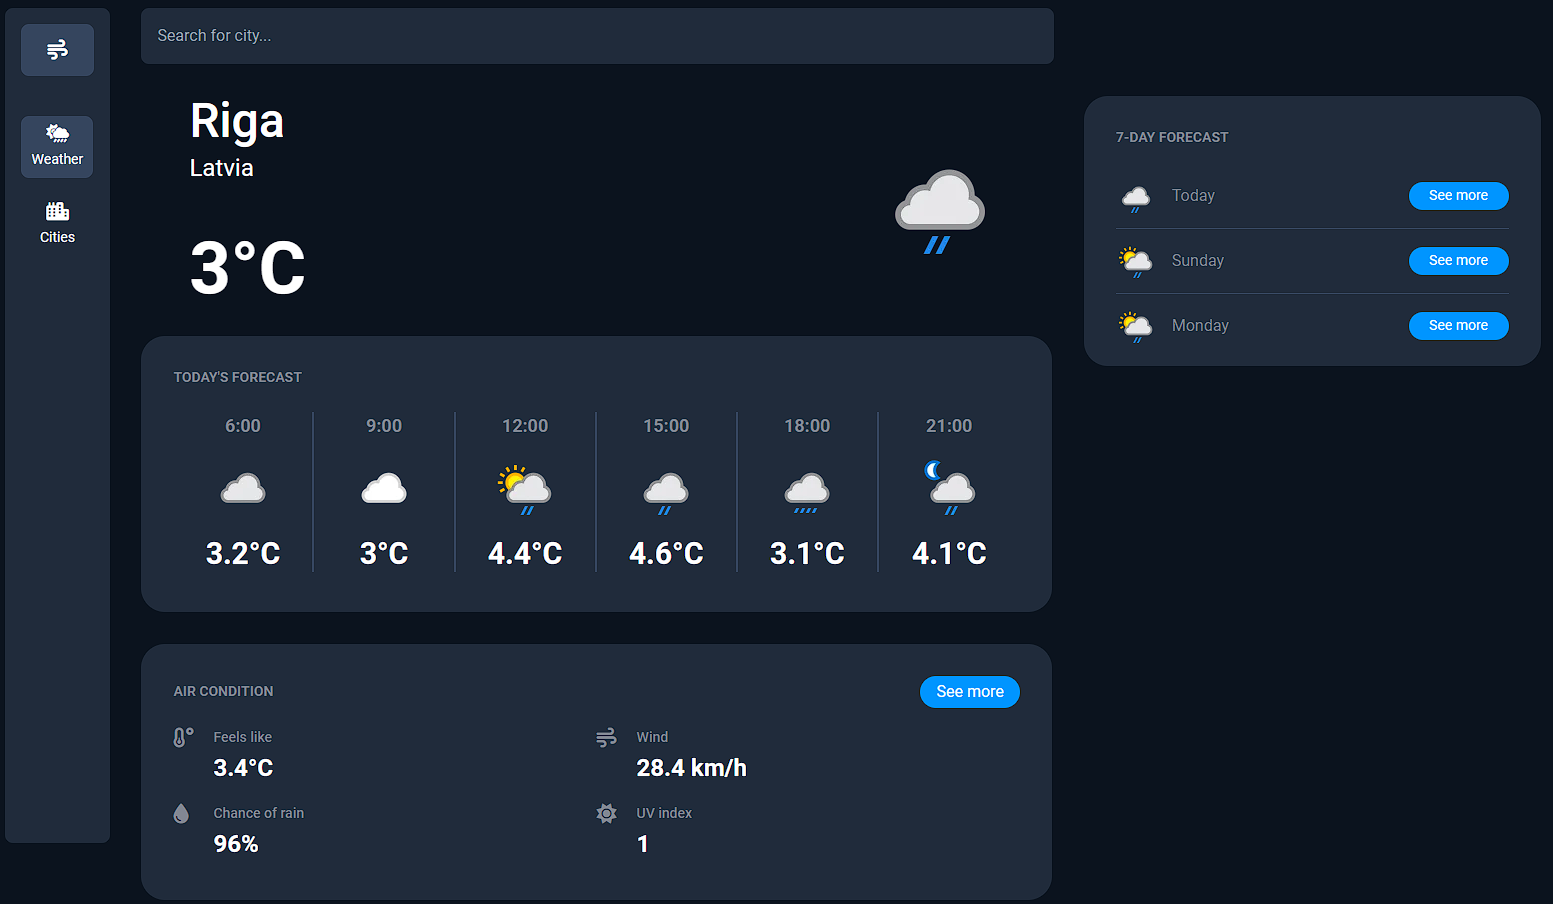
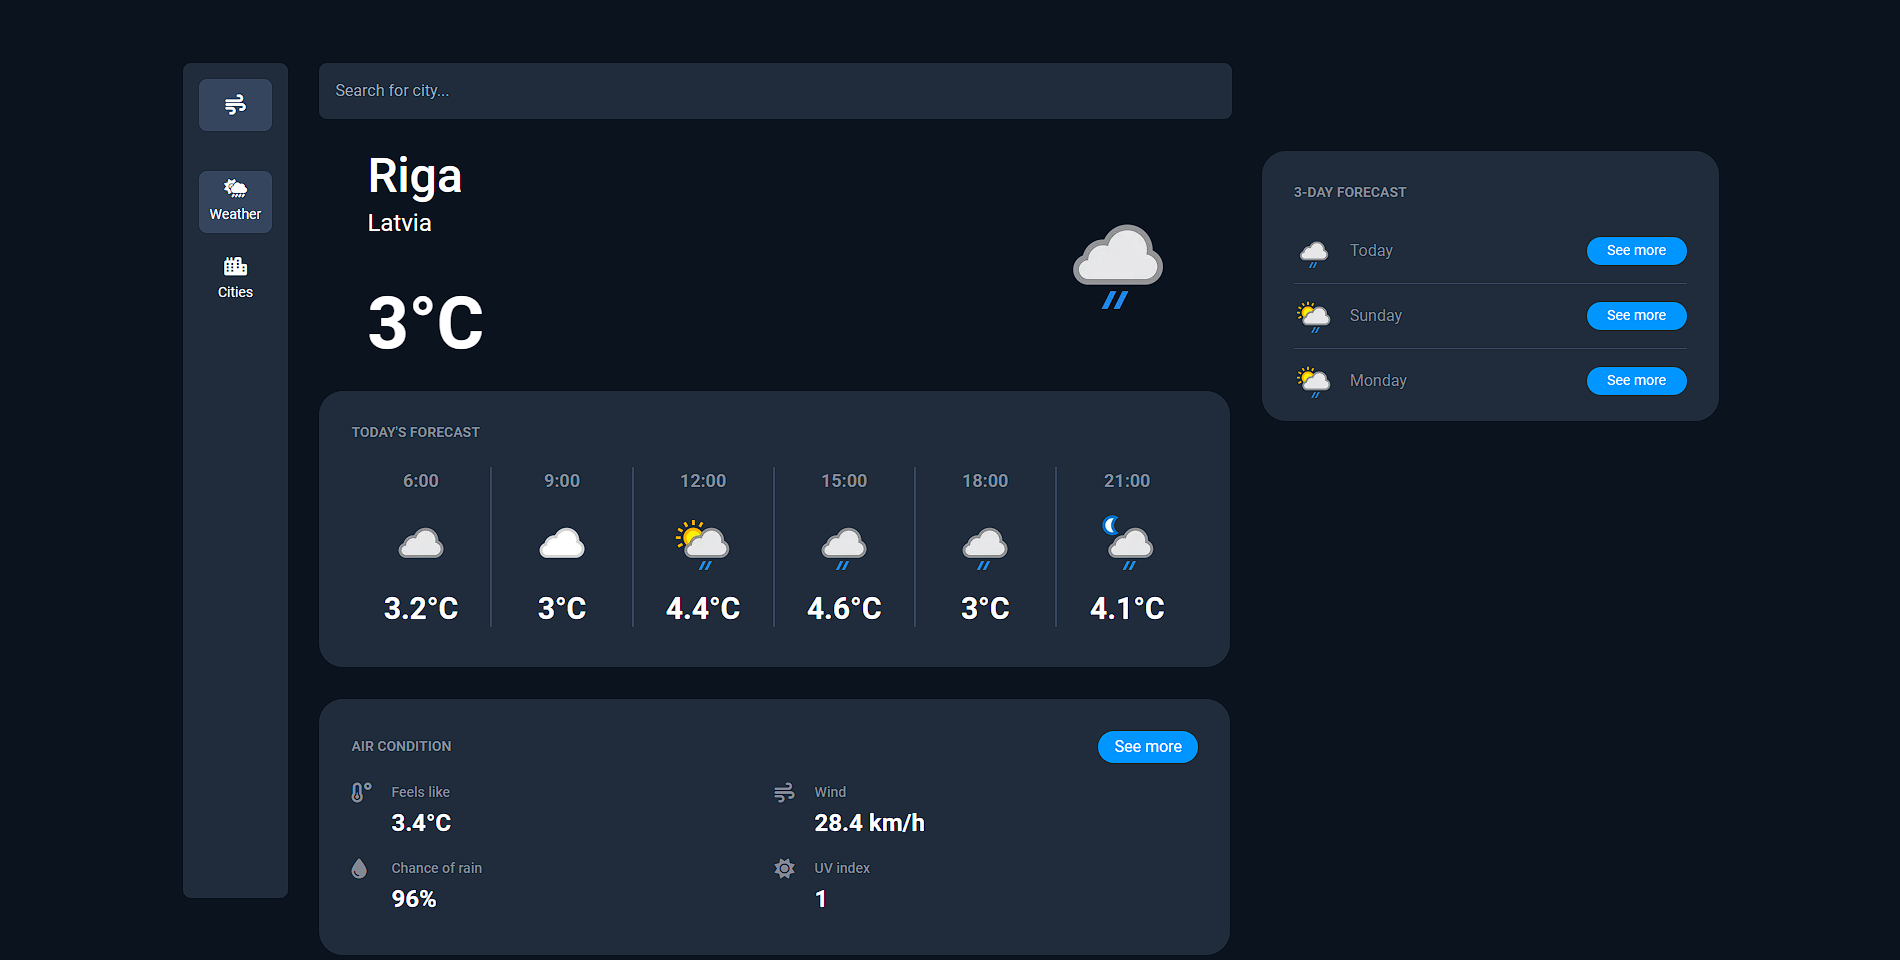
Fixes

diff --git a/src/components/WeeklyForecast.jsx b/src/components/WeeklyForecast.jsx
@@ -10,7 +10,7 @@ const WeeklyForecast = () => {
   return (
     <Card className="w-full h-full !pb-2 xl:w-1/3">
       <h3 className="text-pale-gray text-sm font-bold uppercase">
-        7-Day forecast
+        3-Day forecast
       </h3>
       <div className="flex flex-col">
         {days.map((forecast) => (
